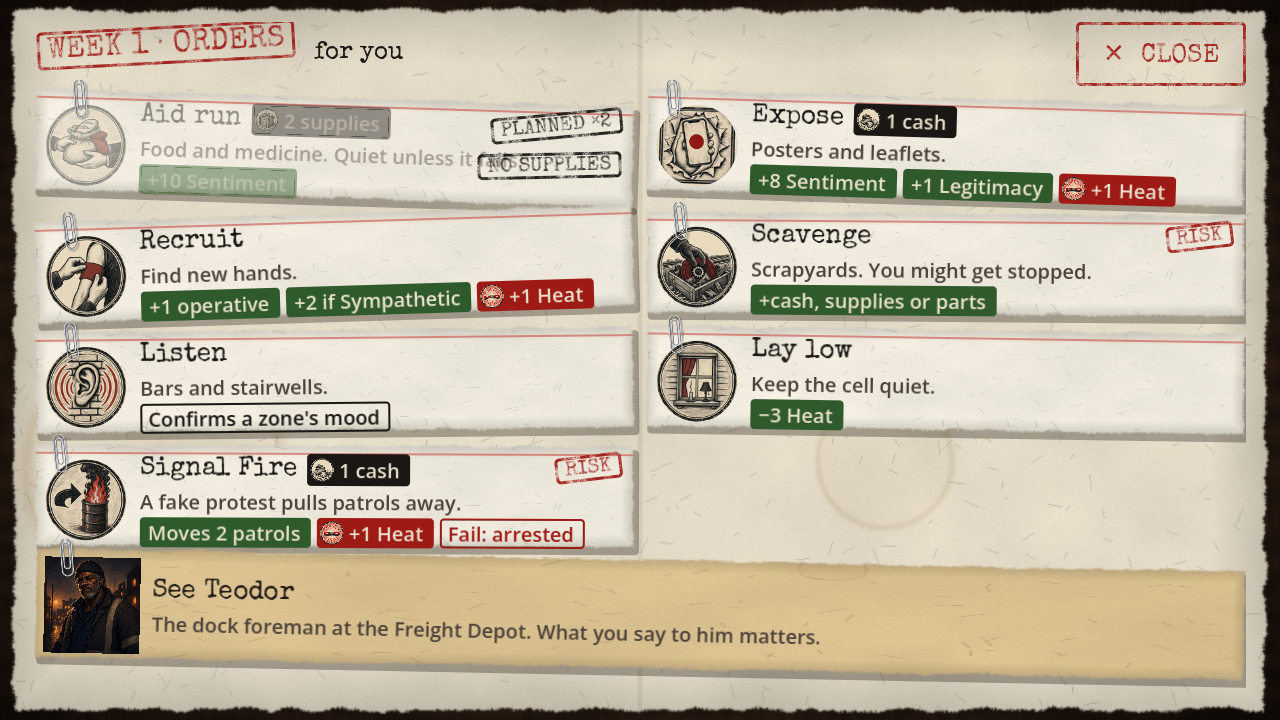
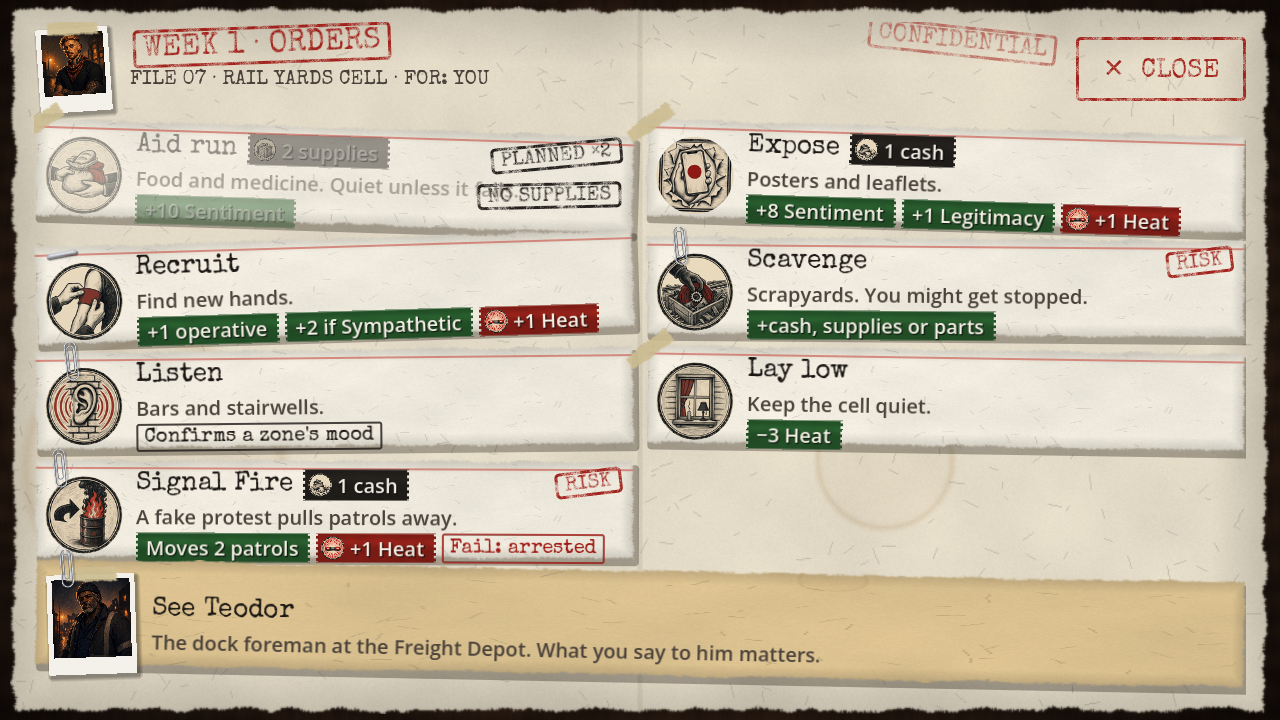
Action picker: label-maker chips, case-file header, mixed fasteners
Duff: 'make it more stylish'. Effect chips are label-maker tape with raised
letters, the header is a case file (operative photo taped on, typed file
line, faded CONFIDENTIAL stamp), cards are held by clips, masking tape or
staples, and Teodor is a taped instant photo on his manila card.

Claude-Session: https://claude.ai/code/session_01V3sbxKbWQMqFnxAbQMutYo

diff --git a/tools/gen_dossier.py b/tools/gen_dossier.py
@@ -125,3 +125,31 @@ W = 256
 n = noise(W, W, 24, 4, 51) * 0.7 + rng.random((W, W)) * 0.3
 save(n * 255, "ink_noise.png")
 print("dossier textures ->", os.path.abspath(OUT))
+
+# label-maker tape (near white so the game tints it green / red / black), 9-patch
+W, H = 96, 32
+t = np.ones((H, W)) * 235
+t *= 0.9 + 0.1 * noise(W, H, 8, 3, 61)
+yy = np.arange(H)[:, None]
+t *= (0.82 + 0.18 * np.exp(-((yy - 9) / 5.0) ** 2))  # glossy band
+t[1:2] *= 1.08
+a = np.ones((H, W)) * 255
+for x in range(5):  # crimped short ends
+    for y in range(H):
+        if (y // 3) % 2 == 0 and x < 2: a[y, x] = 0; a[y, W - 1 - x] = 0
+a[0, :] = 120; a[-1, :] = 120
+save(np.dstack([t, t, t, a]), "tape_label.png")
+
+# masking tape strip, torn ends, see-through
+W, H = 72, 24
+mk = paper(W, H, (212, 196, 150), 71, stains=0, fibers=False)
+ma = torn_alpha(W, H, 72, 4) * 0.9
+save(np.dstack([mk, ma]), "tape_mask.png")
+
+# staple
+im = Image.new("RGBA", (26 * S, 8 * S), (0, 0, 0, 0))
+d = ImageDraw.Draw(im)
+d.rounded_rectangle([1 * S, 2 * S, 25 * S, 6 * S], radius=2 * S, fill=(60, 62, 66, 170))
+d.rounded_rectangle([1 * S, 1 * S, 24 * S, 4 * S], radius=2 * S, fill=(178, 182, 188, 255))
+d.line([3 * S, 2 * S, 22 * S, 2 * S], fill=(235, 238, 242, 255), width=S)
+im.resize((26, 8), Image.LANCZOS).save(os.path.join(OUT, "staple.png"))

diff --git a/CLAUDE.md b/CLAUDE.md
@@ -57,7 +57,8 @@ police state. Owner: Duff. Read this first; it is the handoff between sessions.
   Cancel in the header, "more below" hint when a late week scrolls. Then **desk dossier** (Duff's pick): dark desk +
   torn stained sheet, index cards (manila for Teodor) tilted up to 2° with paper clips, icons cut round
   (`shaders/ui_round_icon`), inked stamps (`shaders/ui_ink_stamp`); textures made free by `tools/gen_dossier.py`
-  into `assets/ui/dossier/`. Typewriter font Special Elite (Apache 2.0,
+  into `assets/ui/dossier/`. "More stylish" pass: label-maker tape chips, case-file header (operative photo
+  taped on, typed file line, CONFIDENTIAL), clips / masking tape / staples by action, Teodor as a taped photo. Typewriter font Special Elite (Apache 2.0,
   `assets/fonts/`). `_pick_action` / `_action_tile` / `_chip` / `_stamp` / `_ledger_box` in game.gd.
 - **Nov 25: phone APK** (standards audit item 1, Duff tapped "1 + 2 now"): Android preset, CI
   `.github/workflows/build.yml` (replaces tests.yml) builds a signed APK on every PR and push to main;
